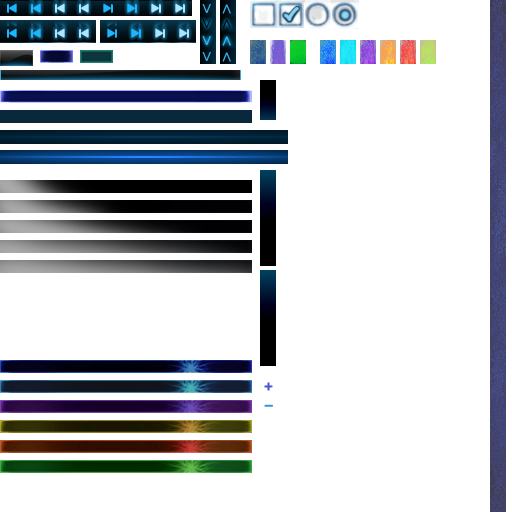
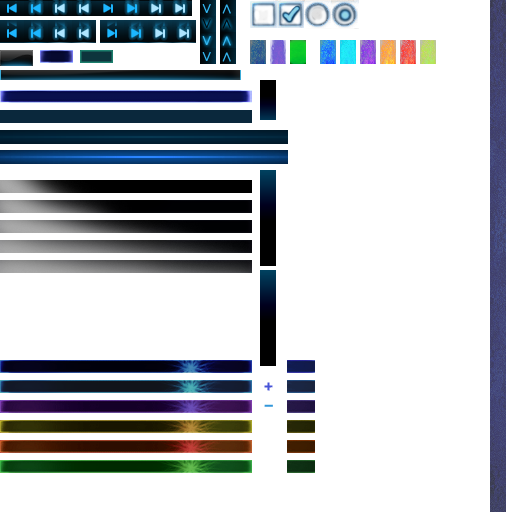
pls (tab) bookmarks 6, alt \ (ctrl dec)

Changed region(s): [[0.5625, 0.6875, 0.625, 0.9375]]

diff --git a/cAmp/Source/List/List.h b/cAmp/Source/List/List.h
@@ -17,10 +17,11 @@ public:
 	
 	//  extra
 	byte type, tab;  //tab--
-	byte hide, sel;  char rate;  // rating
+	byte hide, sel;
+	char rate;  // rating
 	byte dis;  //err disabled
 	byte srch;	//match
-	byte bokm;  //bookmark
+	char bokm;  //bookmark
 
 	bool isDir() {  return  type < TY_FILE;  }
 	
@@ -46,8 +47,12 @@ public:
 	bool Load(), Save();
 	void Clear(), UnSel(), GotoPlay(), Center();
 	void Hide(bool show);  //.. save in dirs
+
 	//  bookmarks
-	void Bookm(int lev), BookmPrev(int lev, bool bSrch), BookmNext(int lev, bool bSrch);
+	char bokm;  //bookmark, backgr clr
+	void BookmPls(char add);
+	void Bookm(char add);  // trk
+	void BookmPrev(int lev, bool bSrch), BookmNext(int lev, bool bSrch);
 
 	//  rating
 	void DecRatePl(),IncRatePl(), DecRate(),IncRate();
@@ -71,7 +76,7 @@ public:
 	void  treeCrt(), listCrt();
 
 	void  tree1File(pTrk* t, pTrk* q, const char* fullpath=0);  bool trGet,trRem;
-	void  getNameRating(const char* name, char* pRate, byte* pBokm);
+	void  getNameRating(const char* name, char* pRate, char* pBokm);
 	pTrk  tree1Dir(const char* subPath),  tt,ww, ll;  /*1st(root): tt-tree, ww-back, ll-list*/
 	pTrk  tree1Dir(pTrk* t, pTrk* q); //drop
 	bool  Next(pTrk& cur), NextLev(pTrk& q);  int lev; // move

diff --git a/cAmp/Source/cD3/D3.h b/cAmp/Source/cD3/D3.h
@@ -13,7 +13,9 @@ enum eETex {
 	TX_DShow, TX_DHide,
 	TX_PlsB1, TX_PlsB2, TX_PlsB3, TX_PlsB4, TX_PlsB5, TX_PlsB6,
 	TX_SliB1, TX_SliB2, TX_SliB3, TX_SliB4, TX_SliB5, TX_SliB6,
-	TX_Rate1, TX_Rate2, TX_Rate3, TX_Rate4, TX_Rate5,  NumTex };
+	TX_Rate1, TX_Rate2, TX_Rate3, TX_Rate4, TX_Rate5,
+	TX_TabB1, TX_TabB2, TX_TabB3, TX_TabB4, TX_TabB5, TX_TabB6,
+	NumTex };
 
 const int texUV[NumTex+1][4] =  // size x,y, pos x,y on player.png texture, in pixels
 {
@@ -66,6 +68,13 @@ const int texUV[NumTex+1][4] =  // size x,y, pos x,y on player.png texture, in p
 	252, 13,	0, 220,		// 3
 	252, 13,	0, 240,		// 4
 	252, 13,	0, 260,		// 5
+
+	26, 8,		288, 362,	// 1 tabs bookm
+	26, 8,		288, 382,	// 2
+	26, 8,		288, 402,	// 3
+	26, 8,		288, 422,	// 4
+	26, 8,		288, 442,	// 5
+	26, 8,		288, 462,	// 6
 	512,512,	0, 0,		// whole tex
 };
 

diff --git a/cAmp/Source/Amp/Help.cpp b/cAmp/Source/Amp/Help.cpp
@@ -128,9 +128,9 @@ void cAmp::DrawHelpText()									//  help  //
 
 		x2=x1+40;  clr(0.3,0.65,0.75);
 		sc("\\");	wR(x1,y);	sc("inc Bookmark at cursor");		wR(x2,y);  y+=Fy;  clr(0.2,0.55,0.65);
-		sc("  ctrl- dec");	wR(x1,y);	y+=Fy;  clr(0.3,0.65,0.75);
+		sc("  ctrl- dec   alt- playlist (tab)");		wR(x1,y);	y+=Fy;  clr(0.3,0.65,0.75);
 		sc("/  .");	wR(x1,y);	sc("next/prev Bookmark in playlist or");	wR(x2,y);  y+=Fy;  clr(0.2,0.85,0.65);
-		sc("next/prev Search result, when showing");  wR(x2,y);  y+=Fy*2;  clr(1,1,1);
+		sc("next/prev Search result, when showing");	wR(x2,y);  y+=Fy*2;  clr(1,1,1);
 
 		sc("D");	wr(x1,y);
 		sc("Duplicate track");								wr(x2,y);  y+=Fy;		dark();

diff --git a/cAmp/Source/Amp/DrawPlst2.cpp b/cAmp/Source/Amp/DrawPlst2.cpp
@@ -20,6 +20,11 @@ void cAmp::DrawPlstRect()
 			if (a==plsPlId)	{  plaPlx = x;  plaPly = y;  }  // play^
 			if (a==plsSelId){  selPlx = x;  selPly = y;  }  // sel^
 			if (a==nTabMov) {  movPlx = x;  movPly = y;  }  // mov
+			// bookm
+			byte b = vPlst[a]->bokm;
+			if (b > 0)  {
+				float yt= yB_pt+y*yH_pt;  float x1= x*xW_pt, x2= x1+xW_pt;
+				Rtex(pDev, Tex, TX_TabB1 + b-1, x1, yt, x2, (yt+yH_pt));  }
 		}  a++;  }
 	}
 	// cur

diff --git a/cAmp/Source/List/List_adv.cpp b/cAmp/Source/List/List_adv.cpp
@@ -5,11 +5,15 @@
 
 //  bookmarks
 //-----------------------------------------------------------------
-void CList::Bookm(int lev)  // toggle
+void CList::BookmPls(char add)
+{
+	bokm += add;  bokm = mia(0,6, bokm);
+}
+void CList::Bookm(char add)
 {
 	if (ll==NULL)  return;
 	char b = vList[lCur]->bokm;
-	b += lev;  b = mia(0,6, b);
+	b += add;  b = mia(0,6, b);
 	vList[lCur]->bokm = b;
 }
 

diff --git a/cAmp/Source/List/List_util.cpp b/cAmp/Source/List/List_util.cpp
@@ -180,7 +180,7 @@ void CList::destDirs()
 //  ctors  --------------------------------------------------------------------------
 
 CList::CList()
-{	tt=NULL; ww=NULL; ll=NULL;
+{	tt=NULL; ww=NULL; ll=NULL;  bokm=0;
 	lCur=0; lOfs=0;  listLen=0;  idPl=0;
 
 	allSize=0; dirSize=0; allTime=0; allDirs=0; allFiles=0;

diff --git a/cAmp/Source/List/List_adv2.cpp b/cAmp/Source/List/List_adv2.cpp
@@ -11,7 +11,7 @@ bool CList::RenameRate(pTrk t)
 	//  empty list or bad file
 	if (ll==NULL || t==NULL || t->dis > 0)  rf
 	
-	char o_rate = 0;  byte o_bokm = 0;
+	char o_rate = 0, o_bokm = 0;
 	size_t posB = 0;
 	getNameRating(t->name.c_str(), &o_rate, &o_bokm);
 	string old = t->getFullPath();

diff --git a/cAmp/Source/List/List_dir.cpp b/cAmp/Source/List/List_dir.cpp
@@ -4,7 +4,7 @@
 using namespace std;
 
 
-void CList::getNameRating(const char* name, char* pRate, byte* pBokm)
+void CList::getNameRating(const char* name, char* pRate, char* pBokm)
 {
 	//  get rating in file name  find # + ~ ^ ` - -- =
 	int len = strlen(name);  // no ext !
